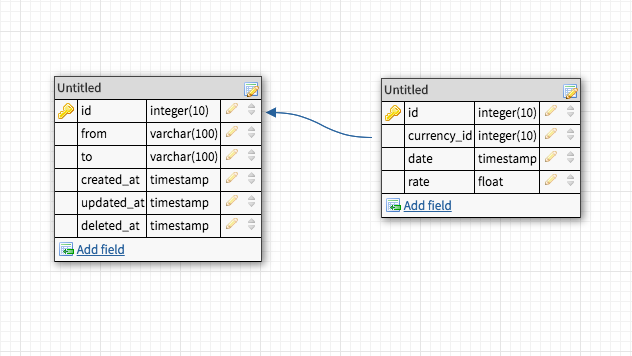
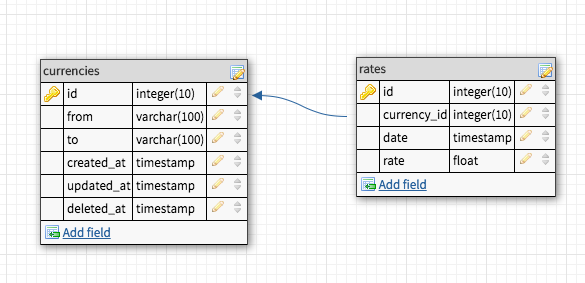
update readme

diff --git a/README.md b/README.md
@@ -48,3 +48,9 @@ By default the app will listen on all interface at port 8080. Here is the list o
 * Add rate currency `POST /api/v1/rate`
 * List currency by date `GET /api/v1/rate` make sure you add query date example `?date=2018-01-01"`
 * List most 7 data point of rate by date `POST /api/v1/rate/most`
+
+## DB SCHEME
+
+We have simply 2 table for this API. here :
+
+![alt text](https://github.com/okiww/Foreign-Currency-GO.git/master/db_scheme.png
